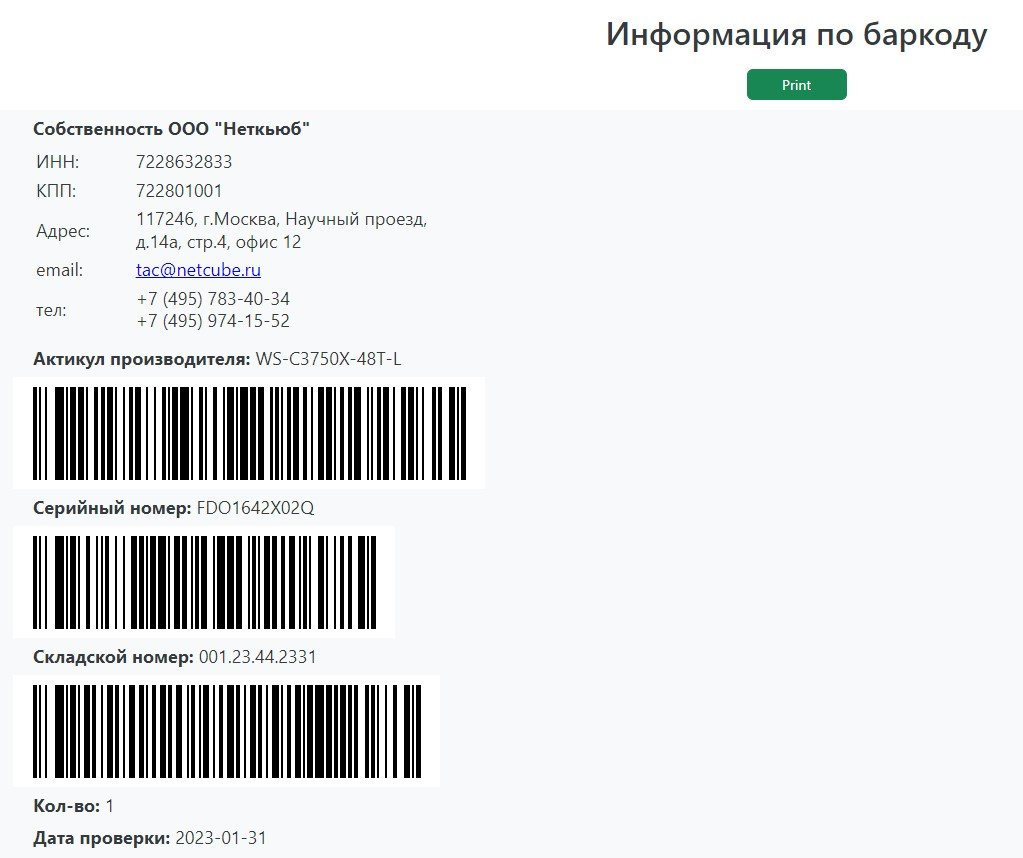
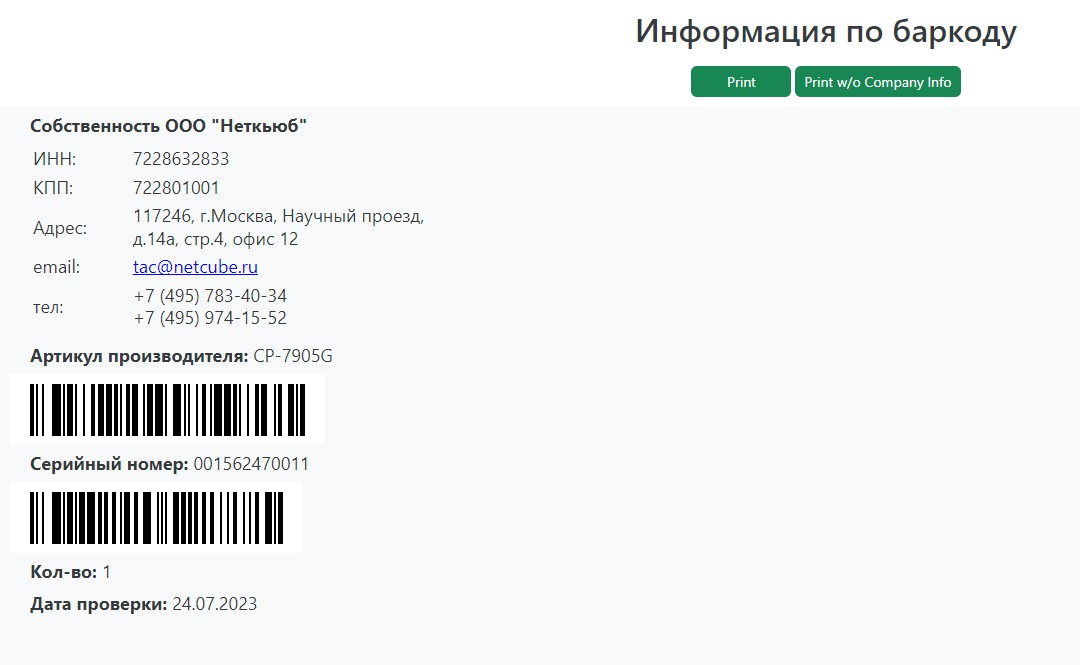
добавлены кнопки печати без данных о компании

Changed region(s): [[0.0303, 0.1203, 0.4545, 0.9925], [0.5758, 0.0301, 0.9697, 0.1504]]

diff --git a/netbox_barcode/templates/netbox_barcode/barcode_bulk_info.html b/netbox_barcode/templates/netbox_barcode/barcode_bulk_info.html
@@ -12,10 +12,6 @@
     margin: 10px auto;
   }
 
-  /* .bar-elements {
-    display: flex;
-  } */
-
   p span {
     font-weight: bold;
   }
@@ -24,10 +20,6 @@
     margin: 5px 0px 5px 20px;
     font-size: 18px;
   }
-
-  /* .bar-space {
-    min-width: 50px;
-  } */
 
   html[data-netbox-color-mode=dark] .p-text {
     margin: 5px 0px 5px 20px;
@@ -50,40 +42,41 @@
     document.body.innerHTML = originalContent;
   }
 </script>
-{% extends 'base/layout.html' %}
 
+{% extends 'base/layout.html' %}
+{% block title %}Barcode List Print View{% endblock %}
 {% block header %}
 <div id="bar-title">
   <h2>Информация по баркодам для выбранных устройств</h2>
   <a href="javascript:void(0);" onclick="printPageArea('printableArea')" class="btn btn-sm btn-success btn-wd">Print</a>
+  <a href="javascript:void(0);" onclick="printPageArea('printableAreaNoCompany')" class="btn btn-sm btn-success btn-wd">Print w/o Company Info</a>
 </div>
 {% endblock header %}
-
 {% block content %}
 <div id="printableArea">
 {% include 'netbox_barcode/company_info.html' %}
-  <!-- <div> -->
-  <table>
-    {% for item in devices %}
-    <tr>
-      <td>
-        {% if item.device_type.barcode_pn %}
-          <p class="p-text"><span>Актикул производителя:</span> {{ item.device_type.barcode_pn.part_number}} </p>
-          <img style="visibility: visible; display: block;" src="{{ item.device_type.barcode_pn.barcode.url }}" alt='barcode_partnumber'>
-        {% endif %}
-      </td>
-      <td></td>
-      <td>
-        {% if item.barcode_sn %}
-          <p class="p-text"><span>Серийный номер:</span> {{ item.barcode_sn.sn }} </p>
-          <img style="visibility: visible; display: block;" src="{{ item.barcode_sn.barcode.url }}" alt='barcode_sn'>
-        {% endif %}
-      </td>
-    </tr>
-    {% endfor %}
-  </table>
-  <!-- </div> -->
-  <p class="p-text"><span>Кол-во:</span> {{ devices.count  }} </p>
-  <p class="p-text"><span>Дата проверки:</span> {% now "SHORT_DATE_FORMAT" %}</p>
+  <div id="printableAreaNoCompany">
+    <table>
+      {% for item in devices %}
+      <tr>
+        <td>
+          {% if item.device_type.barcode_pn %}
+            <p class="p-text"><span>Артикул производителя:</span> {{ item.device_type.barcode_pn.part_number}} </p>
+            <img style="visibility: visible; display: block;" src="{{ item.device_type.barcode_pn.barcode.url }}" alt='barcode_partnumber'>
+          {% endif %}
+        </td>
+        <td></td>
+        <td>
+          {% if item.barcode_sn %}
+            <p class="p-text"><span>Серийный номер:</span> {{ item.barcode_sn.sn }} </p>
+            <img style="visibility: visible; display: block;" src="{{ item.barcode_sn.barcode.url }}" alt='barcode_sn'>
+          {% endif %}
+        </td>
+      </tr>
+      {% endfor %}
+    </table>
+    <p class="p-text"><span>Кол-во:</span> {{ devices.count  }} </p>
+    <p class="p-text"><span>Дата проверки:</span> {% now "SHORT_DATE_FORMAT" %}</p>
+  </div>
 </div>
 {% endblock content %}

diff --git a/netbox_barcode/templates/netbox_barcode/barcode_info.html b/netbox_barcode/templates/netbox_barcode/barcode_info.html
@@ -42,30 +42,32 @@
   }
 </script>
 {% extends 'base/layout.html' %}
-
+{% block title %}Barcode Info{% endblock %}
 {% block header %}
 <div id="bar-title">
   <h2>Информация по баркоду</h2>
   <a href="javascript:void(0);" onclick="printPageArea('printableArea')" class="btn btn-sm btn-success btn-wd">Print</a>
+  <a href="javascript:void(0);" onclick="printPageArea('printableAreaNoCompany')" class="btn btn-sm btn-success btn-wd">Print w/o Company Info</a>
 </div>
 {% endblock header %}
-
 {% block content %}
 <div id="printableArea">
   {% include 'netbox_barcode/company_info.html' %}
-  {% if partnumber %}
-  <p class="p-text"><span>Актикул производителя:</span> {{ partnumber }} </p>
-  <img src="{{ barcode_partnumber.url }}" alt='barcode_partnumber'>
-  {% endif %}
-  {% if sn %}
-  <p class="p-text"><span>Серийный номер:</span> {{ sn }} </p>
-  <img src="{{ barcode_sn.url }}" alt='barcode_sn'>
-  {% endif %}
-  {% if stock_number %}
-  <p class="p-text"><span>Складской номер:</span> {{ stock_number }} </p>
-  <img src="{{ barcode_stocknumber.url }}" alt='barcode_stocknumber'>
-  {% endif %}
-  <p class="p-text"><span>Кол-во:</span> {{device_count}} </p>
-  <p class="p-text"><span>Дата проверки:</span> {% now "SHORT_DATE_FORMAT" %}</p>
+  <div id="printableAreaNoCompany">
+    {% if partnumber %}
+    <p class="p-text"><span>Артикул производителя:</span> {{ partnumber }} </p>
+    <img src="{{ barcode_partnumber.url }}" alt='barcode_partnumber'>
+    {% endif %}
+    {% if sn %}
+    <p class="p-text"><span>Серийный номер:</span> {{ sn }} </p>
+    <img src="{{ barcode_sn.url }}" alt='barcode_sn'>
+    {% endif %}
+    {% if stock_number %}
+    <p class="p-text"><span>Складской номер:</span> {{ stock_number }} </p>
+    <img src="{{ barcode_stocknumber.url }}" alt='barcode_stocknumber'>
+    {% endif %}
+    <p class="p-text"><span>Кол-во:</span> {{device_count}} </p>
+    <p class="p-text"><span>Дата проверки:</span> {% now "SHORT_DATE_FORMAT" %}</p>
+  </div>
 </div>
 {% endblock content %}

diff --git a/netbox_barcode/templates/netbox_barcode/barcode_bulktable.html b/netbox_barcode/templates/netbox_barcode/barcode_bulktable.html
@@ -22,12 +22,11 @@
   .barcode-get-all {
     text-align: center;
   }
-
 </style>
 
 {% extends 'base/layout.html' %}
 {% load render_table from django_tables2 %}
-
+{% block title %}Barcode List{% endblock %}
 {% block header %}
   <div class="barcode-header">
     <div>
@@ -62,7 +61,7 @@
     </div>
   </div>
   <div class="barcode-get-all">
-    <a href="{% url 'plugins:netbox_barcode:barcode_info_bulk' %}" type="button" class="btn btn-outline-primary ">
+    <a href="{% url 'plugins:netbox_barcode:barcode_info_bulk' %}" type="button" class="btn btn-outline-primary" target="_blank">
       Get barcodes for this list
     </a>
   </div>

diff --git a/netbox_barcode/views.py b/netbox_barcode/views.py
@@ -9,6 +9,7 @@ from .forms import BarcodeForm
 
 
 class DeviceBarcodeIdView(View):
+    # class for single device barcode info
     template_name = 'netbox_barcode/barcode_info.html'
 
     def get(self, request, pk):
@@ -52,7 +53,6 @@ class DeviceBarcodePrintAddRemoveView(View):
 
 class DeviceBarcodeTableAddView(View):
     # class to add device to barcode bulk table form
-
     template_name = 'netbox_barcode/addform.html'
     form = BarcodeForm()
 
@@ -73,13 +73,12 @@ class DeviceBarcodeTableAddView(View):
 
 class DeviceBarcodePrintView(View):
     # class for bulk print barcodes info
-
-    devices = Device.objects.filter(barcode_list__isnull=False)
     template_name = 'netbox_barcode/barcode_bulk_info.html'
 
     def get(self, request):
-        for item in self.devices:
+        devices = Device.objects.filter(barcode_list__isnull=False)
+        for item in devices:
             get_barcode_data(item)
         return render(
-            request, self.template_name, {"devices": self.devices}
+            request, self.template_name, {"devices": devices}
         )

diff --git a/netbox_barcode/models.py b/netbox_barcode/models.py
@@ -9,6 +9,7 @@ from .utils import get_barcode
 
 
 class Barcode(models.Model):
+    """Abstract barcode model."""
 
     barcode = models.ImageField(
         upload_to='image-attachments/barcodes/', blank=True, unique=True)
@@ -108,6 +109,8 @@ class BarcodePartNumber(Barcode):
 
 
 class BarcodeList(models.Model):
+    """Model for barcode list."""
+
     device = models.OneToOneField(
         to="dcim.Device",
         on_delete=models.CASCADE,

diff --git a/README.md b/README.md
@@ -8,12 +8,16 @@
 - серийный номер;
 - складской номер (дополнительное кастомное поле netbox);
 - партномер устройства.
+Также доступен функционал пакетной генерации баркодов.
 
 `Проверен на netbox версии 3.3.5 и выше`
 
 ## Скриншоты
 ![Device Barcode Button](docs/img/netbox_device_button.jpg)
 ![Device Barcode Info](docs/img/netbox_device_barcode_info.jpg)
+![Device Barcode Bulk List](docs/img/netbox_bulk_plist.jpg)
+![Device Barcode Bulk List Add](docs/img/netbox_bulk_add.jpg)
+![Device Barcode Bulk List Info](docs/img/netbox_device_bulk_barcode_info.jpg)
 ![Device Barcode Admin Menu](docs/img/netbox_admin1.jpg)
 ![Device Barcode Admin Menu](docs/img/netbox_admin2.jpg)
 ![Device Barcode Admin Menu](docs/img/netbox_admin3.jpg)

diff --git a/Release_notes.md b/Release_notes.md
@@ -1,5 +1,5 @@
 #Versions improvement
 
 - 0.1 - intial release
-- 0.2 - changed device count logic. Now child devices in device bays are also counts for barcode info page.
+- 0.2 - changed device count logic. Now child devices in device bays are also counts for device barcode info page.
 - 0.3 - added functionality for barcode bulk print. Now you can add individual devices or bulk add devices to print table.
